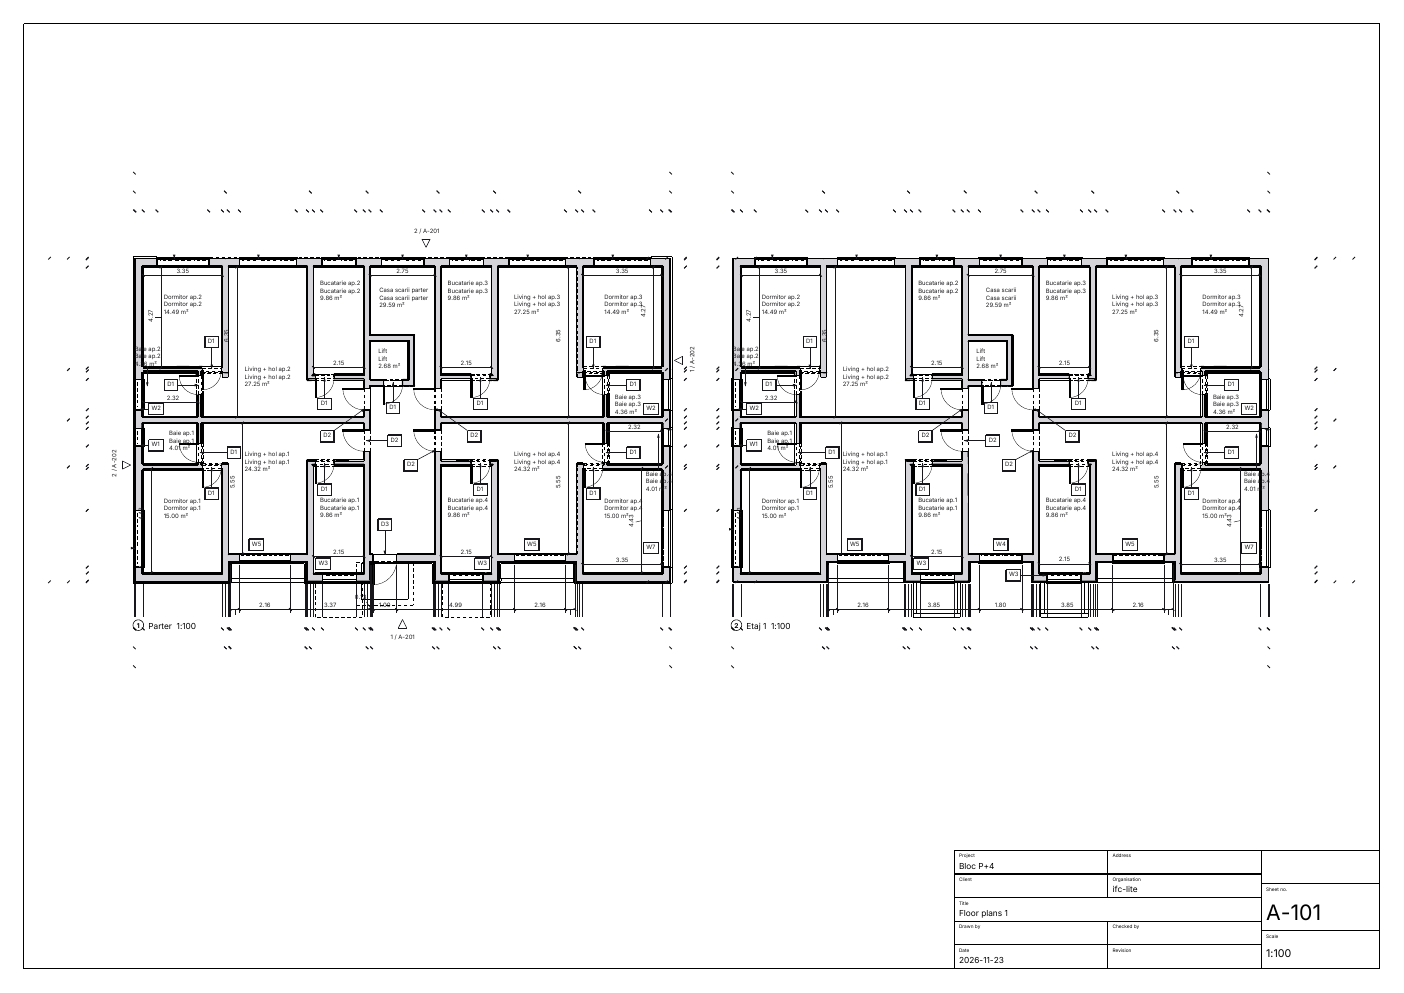
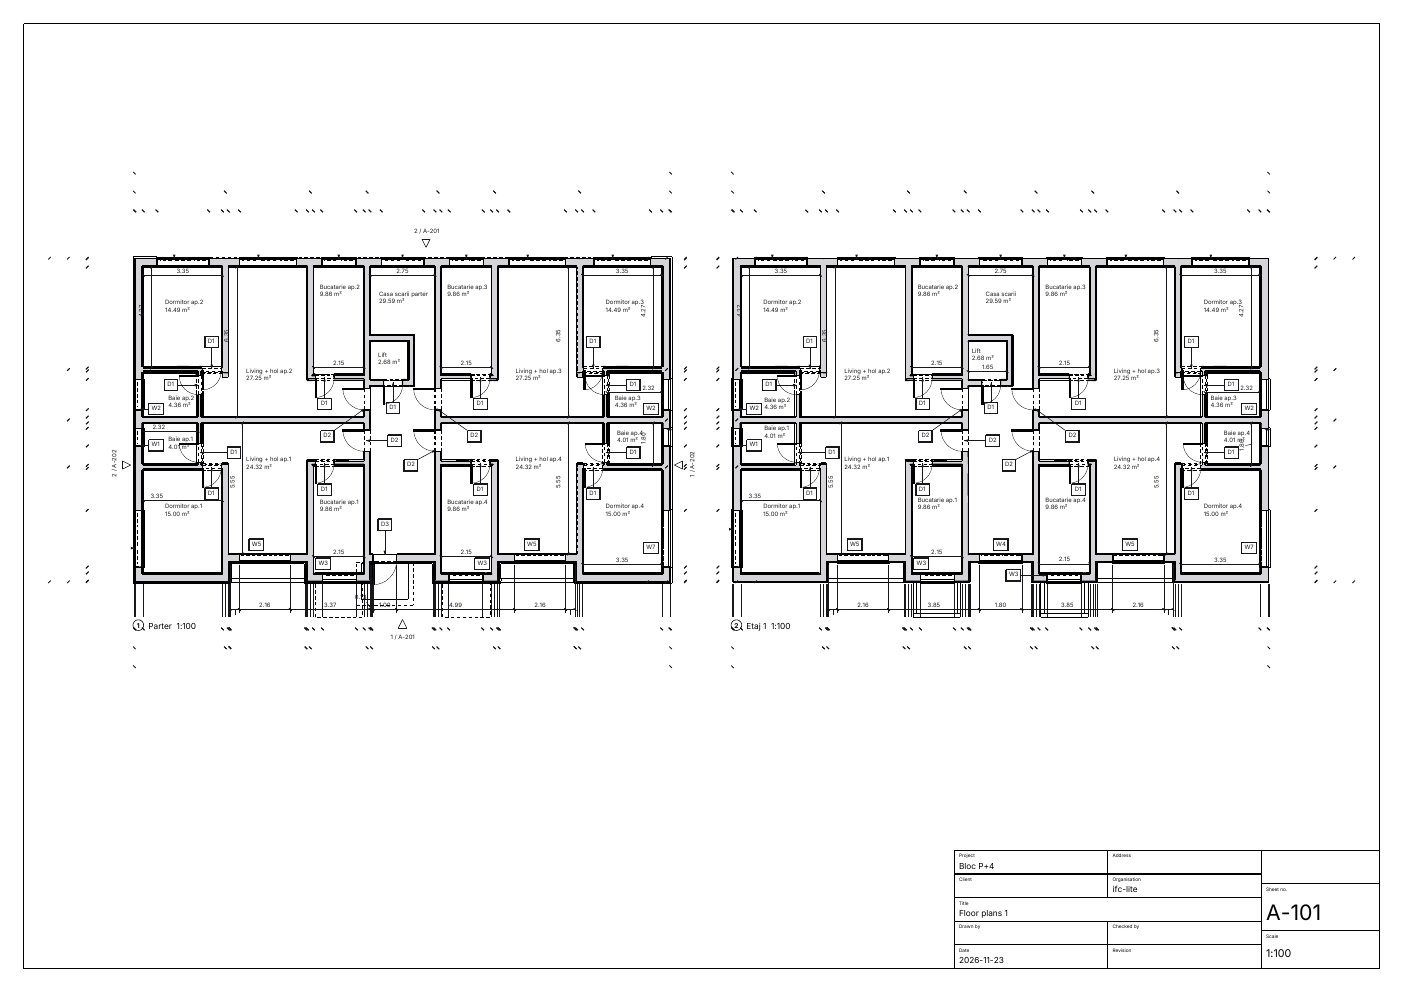
A room whose LongName repeats its Name is tagged with its name once: the app and the engine read a room's number by one rule

diff --git a/packages/ifcsheet/src/labels/room-number.test.ts b/packages/ifcsheet/src/labels/room-number.test.ts
@@ -1,0 +1,59 @@
+/* This Source Code Form is subject to the terms of the Mozilla Public
+ * License, v. 2.0. If a copy of the MPL was not distributed with this
+ * file, You can obtain one at https://mozilla.org/MPL/2.0/. */
+
+/**
+ * A room whose LongName only repeats its Name has no number. The demo model bloc-p4 writes every room that way
+ * (`IFCSPACE(...,'Dormitor ap.2',...,'Dormitor ap.2',...)`), and its tags printed "Dormitor ap.2" twice, one line as the
+ * number and one as the name.
+ */
+
+import { existsSync, readFileSync } from 'node:fs';
+import { fileURLToPath } from 'node:url';
+import { beforeAll, describe, expect, it } from 'vitest';
+import { ALL_CHOICES } from '../annotate/choices.js';
+import { annotateSetHeadless } from '../annotate/headless.js';
+import { generateDefaultSet, type DefaultSet } from '../default-set.js';
+import type { DraftEntity } from '../draft-types.js';
+import { openModel, type OpenedModel } from '../headless.js';
+import { ROOM_TYPE_ID } from '../tagall/types.js';
+import { roomNumberOf } from './room-number.js';
+
+const BLOC = fileURLToPath(new URL('../../../../apps/viewer/public/samples/bloc-p4.ifc', import.meta.url));
+const WASM = fileURLToPath(new URL('../../../wasm/pkg/ifc-lite_bg.wasm', import.meta.url));
+const missing = !existsSync(WASM) ? 'wasm bundle not built: run `pnpm build:wasm:fetch`' : null;
+if (missing) console.warn(`[ifcsheet] skipping the room number tests on bloc-p4: ${missing}`);
+
+describe('a room\'s number', () => {
+  it('is the Name when a LongName that says something else names the room', () => {
+    expect(roomNumberOf('4', 'Schlafzimmer')).toBe('4');
+  });
+  it('is nothing when there is no LongName, or the LongName repeats the Name', () => {
+    expect(roomNumberOf('Kitchen', '')).toBe('');
+    expect(roomNumberOf('Kitchen', null)).toBe('');
+    expect(roomNumberOf('Dormitor ap.2', 'Dormitor ap.2')).toBe('');
+    expect(roomNumberOf('Dormitor ap.2 ', ' Dormitor ap.2')).toBe('');
+  });
+});
+
+describe.skipIf(missing !== null)('rooms whose LongName repeats their Name, on bloc-p4', () => {
+  let model: OpenedModel;
+  let set: DefaultSet;
+  beforeAll(async () => {
+    model = await openModel(new Uint8Array(readFileSync(BLOC)));
+    const made = generateDefaultSet(model, { now: 0 });
+    if (!made) throw new Error('no set: the model has no extent');
+    set = made;
+  }, 120_000);
+
+  it('are tagged with their name once', async () => {
+    const plan = set.document.views.find((v) => v.kind === 'plan')!;
+    const { all } = await annotateSetHeadless({ model, set, choices: { ...ALL_CHOICES, dimall: false, levelall: false } as typeof ALL_CHOICES, viewIds: new Set([plan.id]) });
+    const tags = all.filter((d: DraftEntity) => d.viewId === plan.id && d.shape.type === 'text' && d.params.atype === ROOM_TYPE_ID);
+    expect(tags.length, 'the plan has room tags, so the test can tell').toBeGreaterThan(10);
+    for (const tag of tags) {
+      const lines = (tag.shape.type === 'text' ? tag.shape.text : '').split('\n').map((l) => l.trim()).filter(Boolean);
+      expect(new Set(lines).size, `a tag repeats a line: ${JSON.stringify(lines)}`).toBe(lines.length);
+    }
+  }, 120_000);
+});

diff --git a/apps/viewer/src/labels/room-number.models.test.tsx b/apps/viewer/src/labels/room-number.models.test.tsx
@@ -1,0 +1,44 @@
+/* This Source Code Form is subject to the terms of the Mozilla Public
+ * License, v. 2.0. If a copy of the MPL was not distributed with this
+ * file, You can obtain one at https://mozilla.org/MPL/2.0/. */
+
+/**
+ * The app reads a room's number by the engine's rule (`roomNumberOf`): a room whose LongName only repeats its Name has
+ * none, so its tag does not print the name twice (the demo model bloc-p4 writes every room that way), and a room with a
+ * number of its own keeps it (AC20-FZK-Haus, room 4 "Schlafzimmer").
+ */
+
+import '@/test/setup-dom.js';
+import { afterEach, describe, it } from 'node:test';
+import assert from 'node:assert/strict';
+import { readFileSync } from 'node:fs';
+import { resolve } from 'node:path';
+import { cleanup } from '@/test/render.js';
+import { parseStep, seedModel } from '@/test/properties-panel-harness.js';
+import { labelElementByGlobalId } from '@/labels/label-element.js';
+import { resetProject } from '@/project/project-store.js';
+
+const open = async (id: string, path: string): Promise<void> => {
+  resetProject();
+  seedModel(id, 0, await parseStep(readFileSync(resolve(process.cwd(), path))), 1);
+};
+afterEach(() => cleanup());
+
+describe('a room\'s number, as a tag reads it in the app', () => {
+  it('is nothing for a room whose LongName repeats its Name (bloc-p4)', async () => {
+    await open('bloc', 'public/samples/bloc-p4.ifc');
+    const room = labelElementByGlobalId('1zwXMmJcDF7Q9wa$FvR1gO');
+    assert.ok(room, 'the room is in the model');
+    assert.equal(room.attribute('Name'), 'Dormitor ap.2');
+    assert.equal(room.attribute('LongName'), 'Dormitor ap.2');
+    assert.equal(room.attribute('RoomNumber'), '');
+  });
+
+  it('is the Name for a room a different LongName names (AC20-FZK-Haus)', async () => {
+    await open('fzk', 'src/test/__fixtures__/AC20-FZK-Haus.ifc');
+    const room = labelElementByGlobalId('347jFE2yX7IhCEIALmupEH');
+    assert.ok(room, 'the room is in the model');
+    assert.equal(room.attribute('LongName'), 'Schlafzimmer');
+    assert.equal(room.attribute('RoomNumber'), '4');
+  });
+});

diff --git a/apps/viewer/src/labels/label-element.ts b/apps/viewer/src/labels/label-element.ts
@@ -20,7 +20,7 @@ import { elementByGlobalId } from '@/project/element-label';
 import { useProjectStore } from '@/project/project-store';
 import { useViewerStore } from '@/store';
 import { QuantityType, type QuantitySet } from '@ifc-lite/data';
-import type { LabelElement, QuantitySetLike } from '@bimvoice/ifcsheet';
+import { roomNumberOf, type LabelElement, type QuantitySetLike } from '@bimvoice/ifcsheet';
 
 interface Cached {
   version: number;
@@ -77,7 +77,7 @@ export function labelElementOf(modelId: string, expressId: number): LabelElement
         case 'Name': return p.getEntityName(expressId);
         case 'Tag': return p.getEntityTag(expressId);
         case 'LongName': return longNameOf(modelId, expressId);
-        case 'RoomNumber': return longNameOf(modelId, expressId) ? p.getEntityName(expressId) : '';
+        case 'RoomNumber': return roomNumberOf(p.getEntityName(expressId), longNameOf(modelId, expressId));
         case 'Mark': return isOpening(p.getEntityTypeName(expressId)) ? openingMarkOf(modelId, expressId, p.getEntityTag(expressId)) : markOf(p.getEntityTag(expressId));
         case 'TagName': return '';
         case 'ObjectType': return p.getEntityObjectType(expressId);

diff --git a/packages/ifcsheet/src/annotate/headless.ts b/packages/ifcsheet/src/annotate/headless.ts
@@ -49,6 +49,7 @@ import { scheduleModelsOf } from '../schedule-models.js';
 import type { SheetLocale } from '../units-and-numbers.js';
 import { generateViewDrawings, terrainMeshesOf } from '../view-drawings.js';
 import type { AnnotateChoices } from './choices.js';
+import { roomNumberOf } from '../labels/room-number.js';
 import { annotateViews, type AnnotateReaders, type AnnotateView, type AnnotateViewsResult, type ReadCall } from './views.js';
 
 export { DEFAULT_DRAFT_LAYER };
@@ -106,7 +107,7 @@ function elementReader(dataStore: NonNullable<AnnotateModel['dataStore']>, rende
           case 'Name': return p.getEntityName(id);
           case 'Tag': return p.getEntityTag(id);
           case 'LongName': return longNameOf(id);
-          case 'RoomNumber': return longNameOf(id) ? p.getEntityName(id) : '';
+          case 'RoomNumber': return roomNumberOf(p.getEntityName(id), longNameOf(id));
           case 'Mark': return markOf(id, p.getEntityTag(id));
           case 'TagName': return '';
           case 'ObjectType': return p.getEntityObjectType(id);

diff --git a/packages/ifcsheet/src/labels/room-number.ts b/packages/ifcsheet/src/labels/room-number.ts
@@ -1,0 +1,14 @@
+/* This Source Code Form is subject to the terms of the Mozilla Public
+ * License, v. 2.0. If a copy of the MPL was not distributed with this
+ * file, You can obtain one at https://mozilla.org/MPL/2.0/. */
+
+/**
+ * A room's number: its `Name`, when a `LongName` that says something else names the room. A `LongName` that only repeats
+ * the `Name` (what several exporters write for a room nobody numbered) leaves the room without a number, so a tag or a
+ * schedule row does not print the same words twice. The tag's `{RoomNumber}` takes it from here in the app and in the
+ * engine, so the two cannot differ.
+ */
+export function roomNumberOf(name: string | null | undefined, longName: string | null | undefined): string {
+  const long = (longName ?? '').trim();
+  return long && long !== (name ?? '').trim() ? name ?? '' : '';
+}

diff --git a/packages/ifcsheet/src/exports/labels.ts b/packages/ifcsheet/src/exports/labels.ts
@@ -14,4 +14,5 @@ export {
   type AttributeField, type FieldRef, type ParsedTemplate, type TemplateField,
 } from '../labels/label-template.js';
 export { formatValue, parseFormatSpec } from '../labels/label-format.js';
+export { roomNumberOf } from '../labels/room-number.js';
 export { viewElements, type ViewElement } from '../labels/view-elements.js';

diff --git a/.changeset/room-number-once.md b/.changeset/room-number-once.md
@@ -1,0 +1,5 @@
+---
+"@bimvoice/ifcsheet": minor
+---
+
+A room whose LongName only repeats its Name has no room number, so its tag prints the name once instead of twice. `roomNumberOf` is the one rule the app and the engine read a room's number by.
